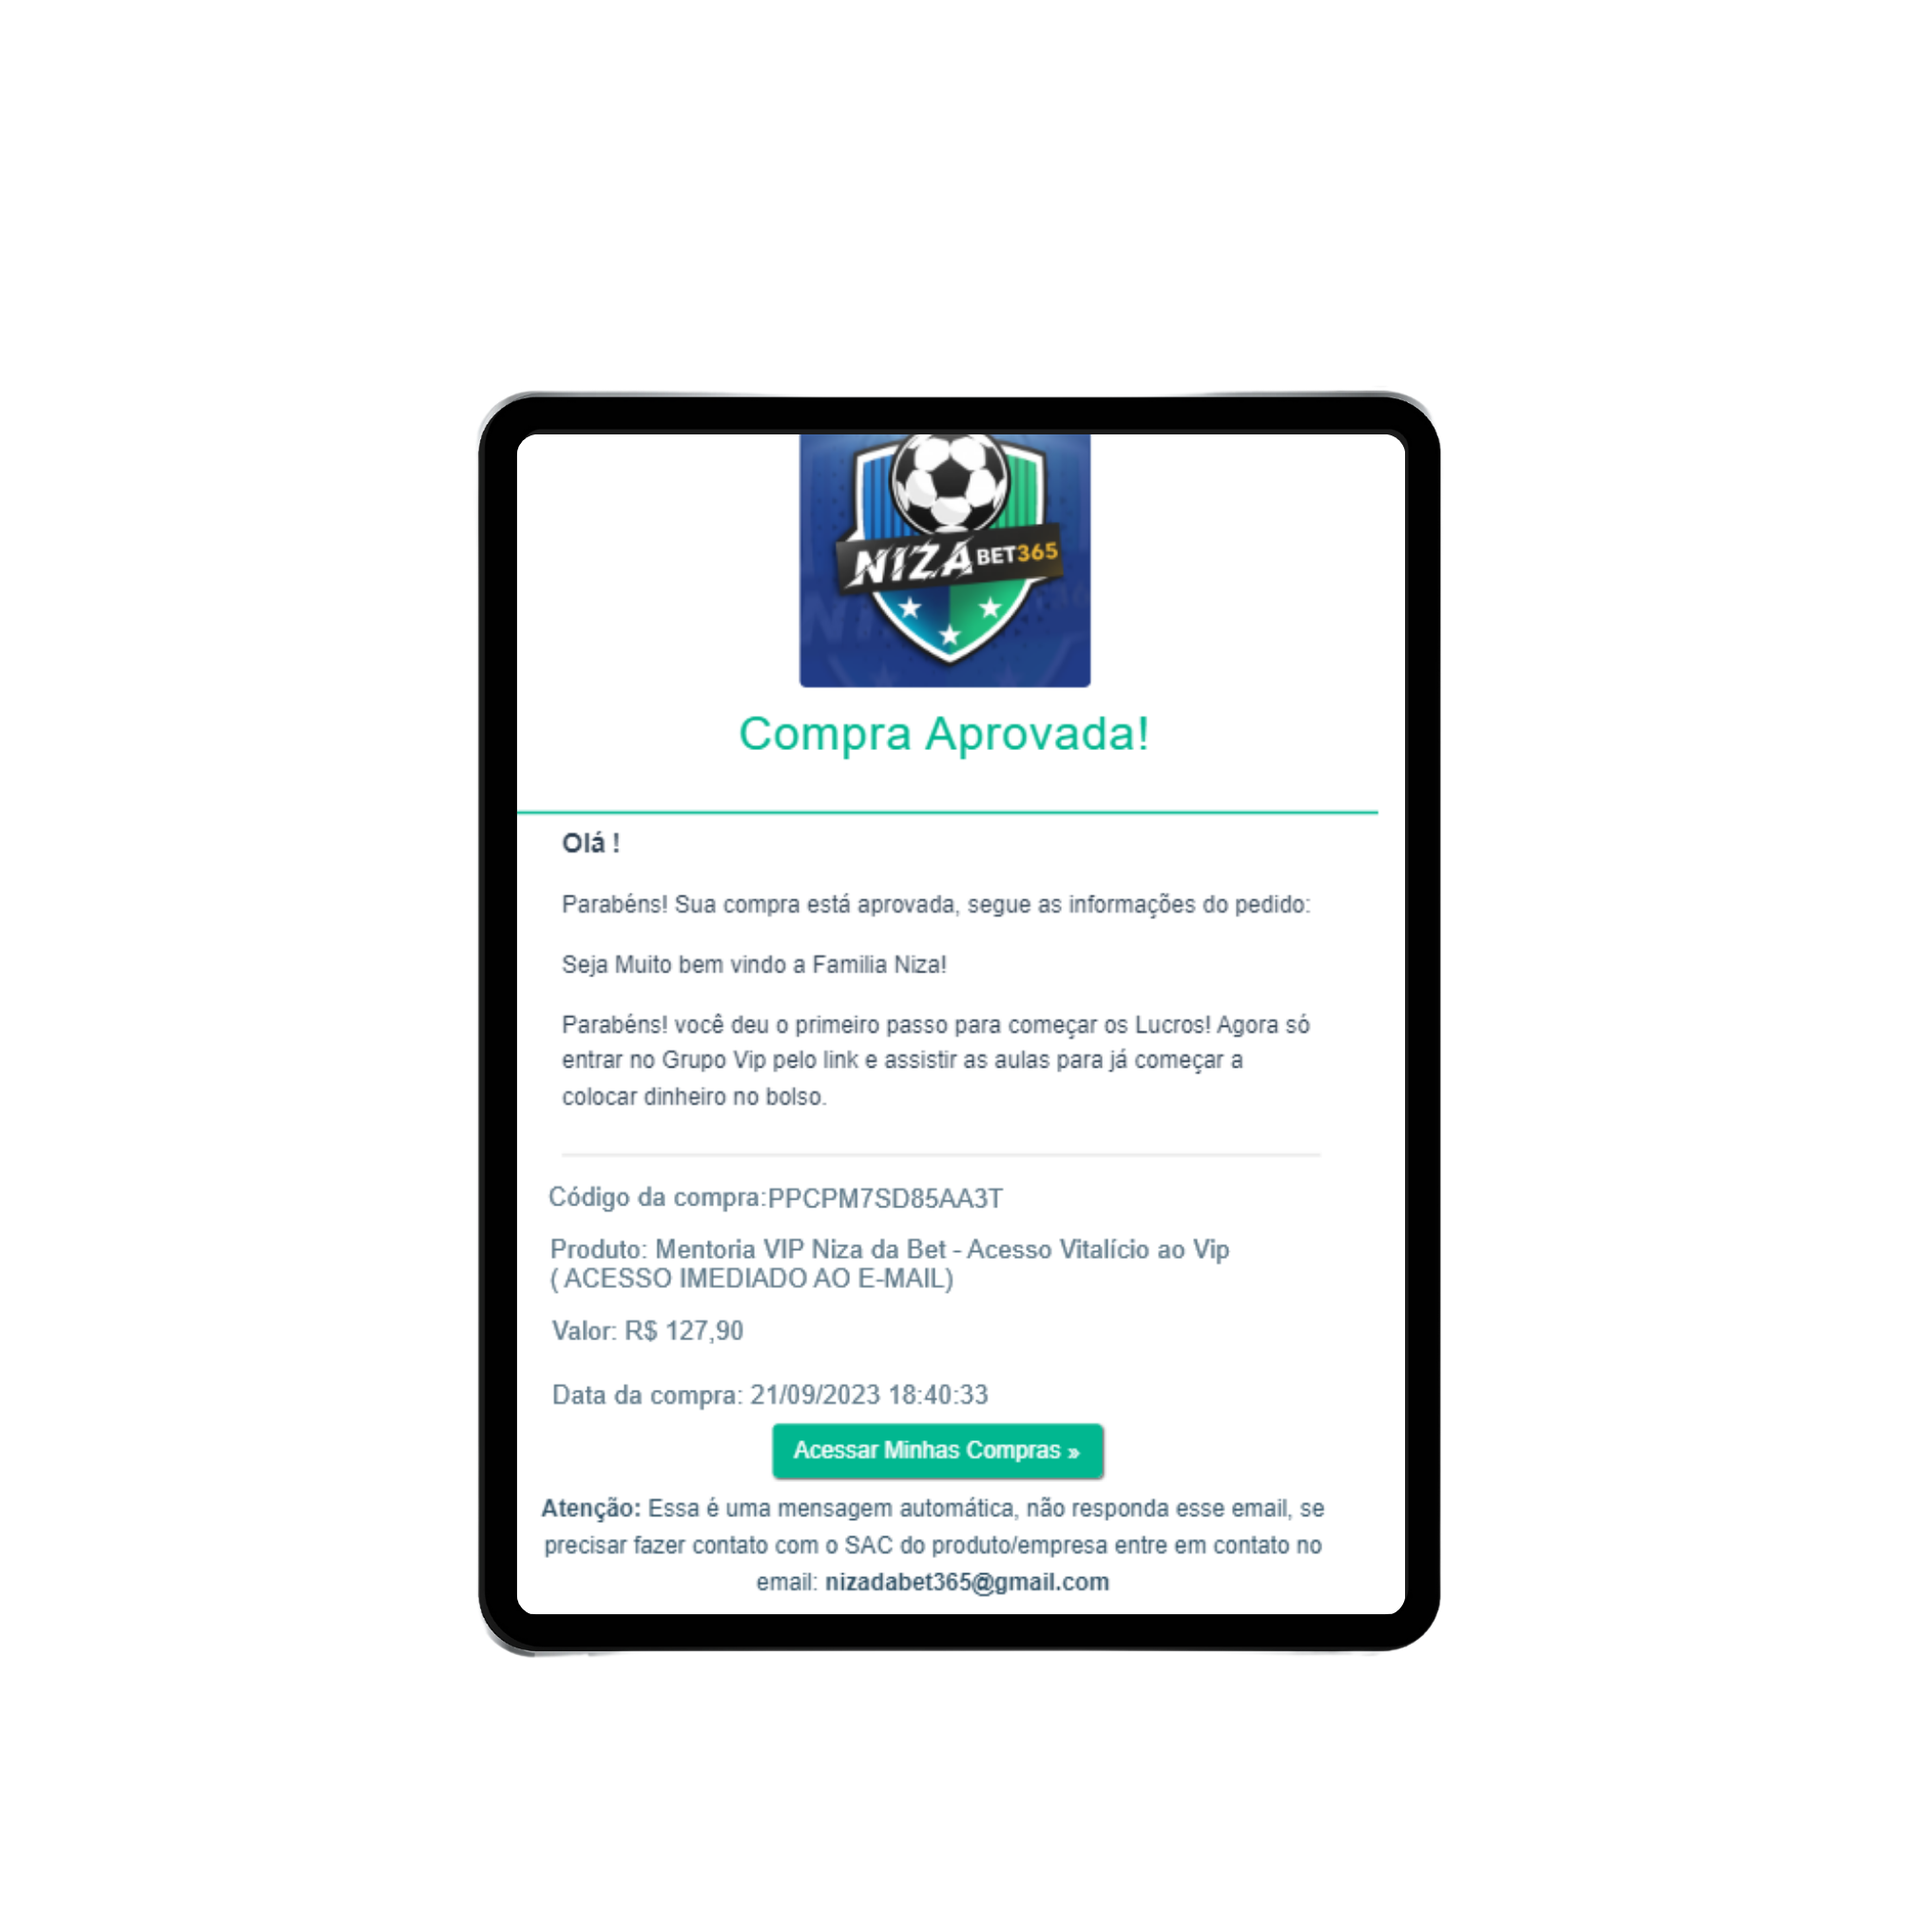
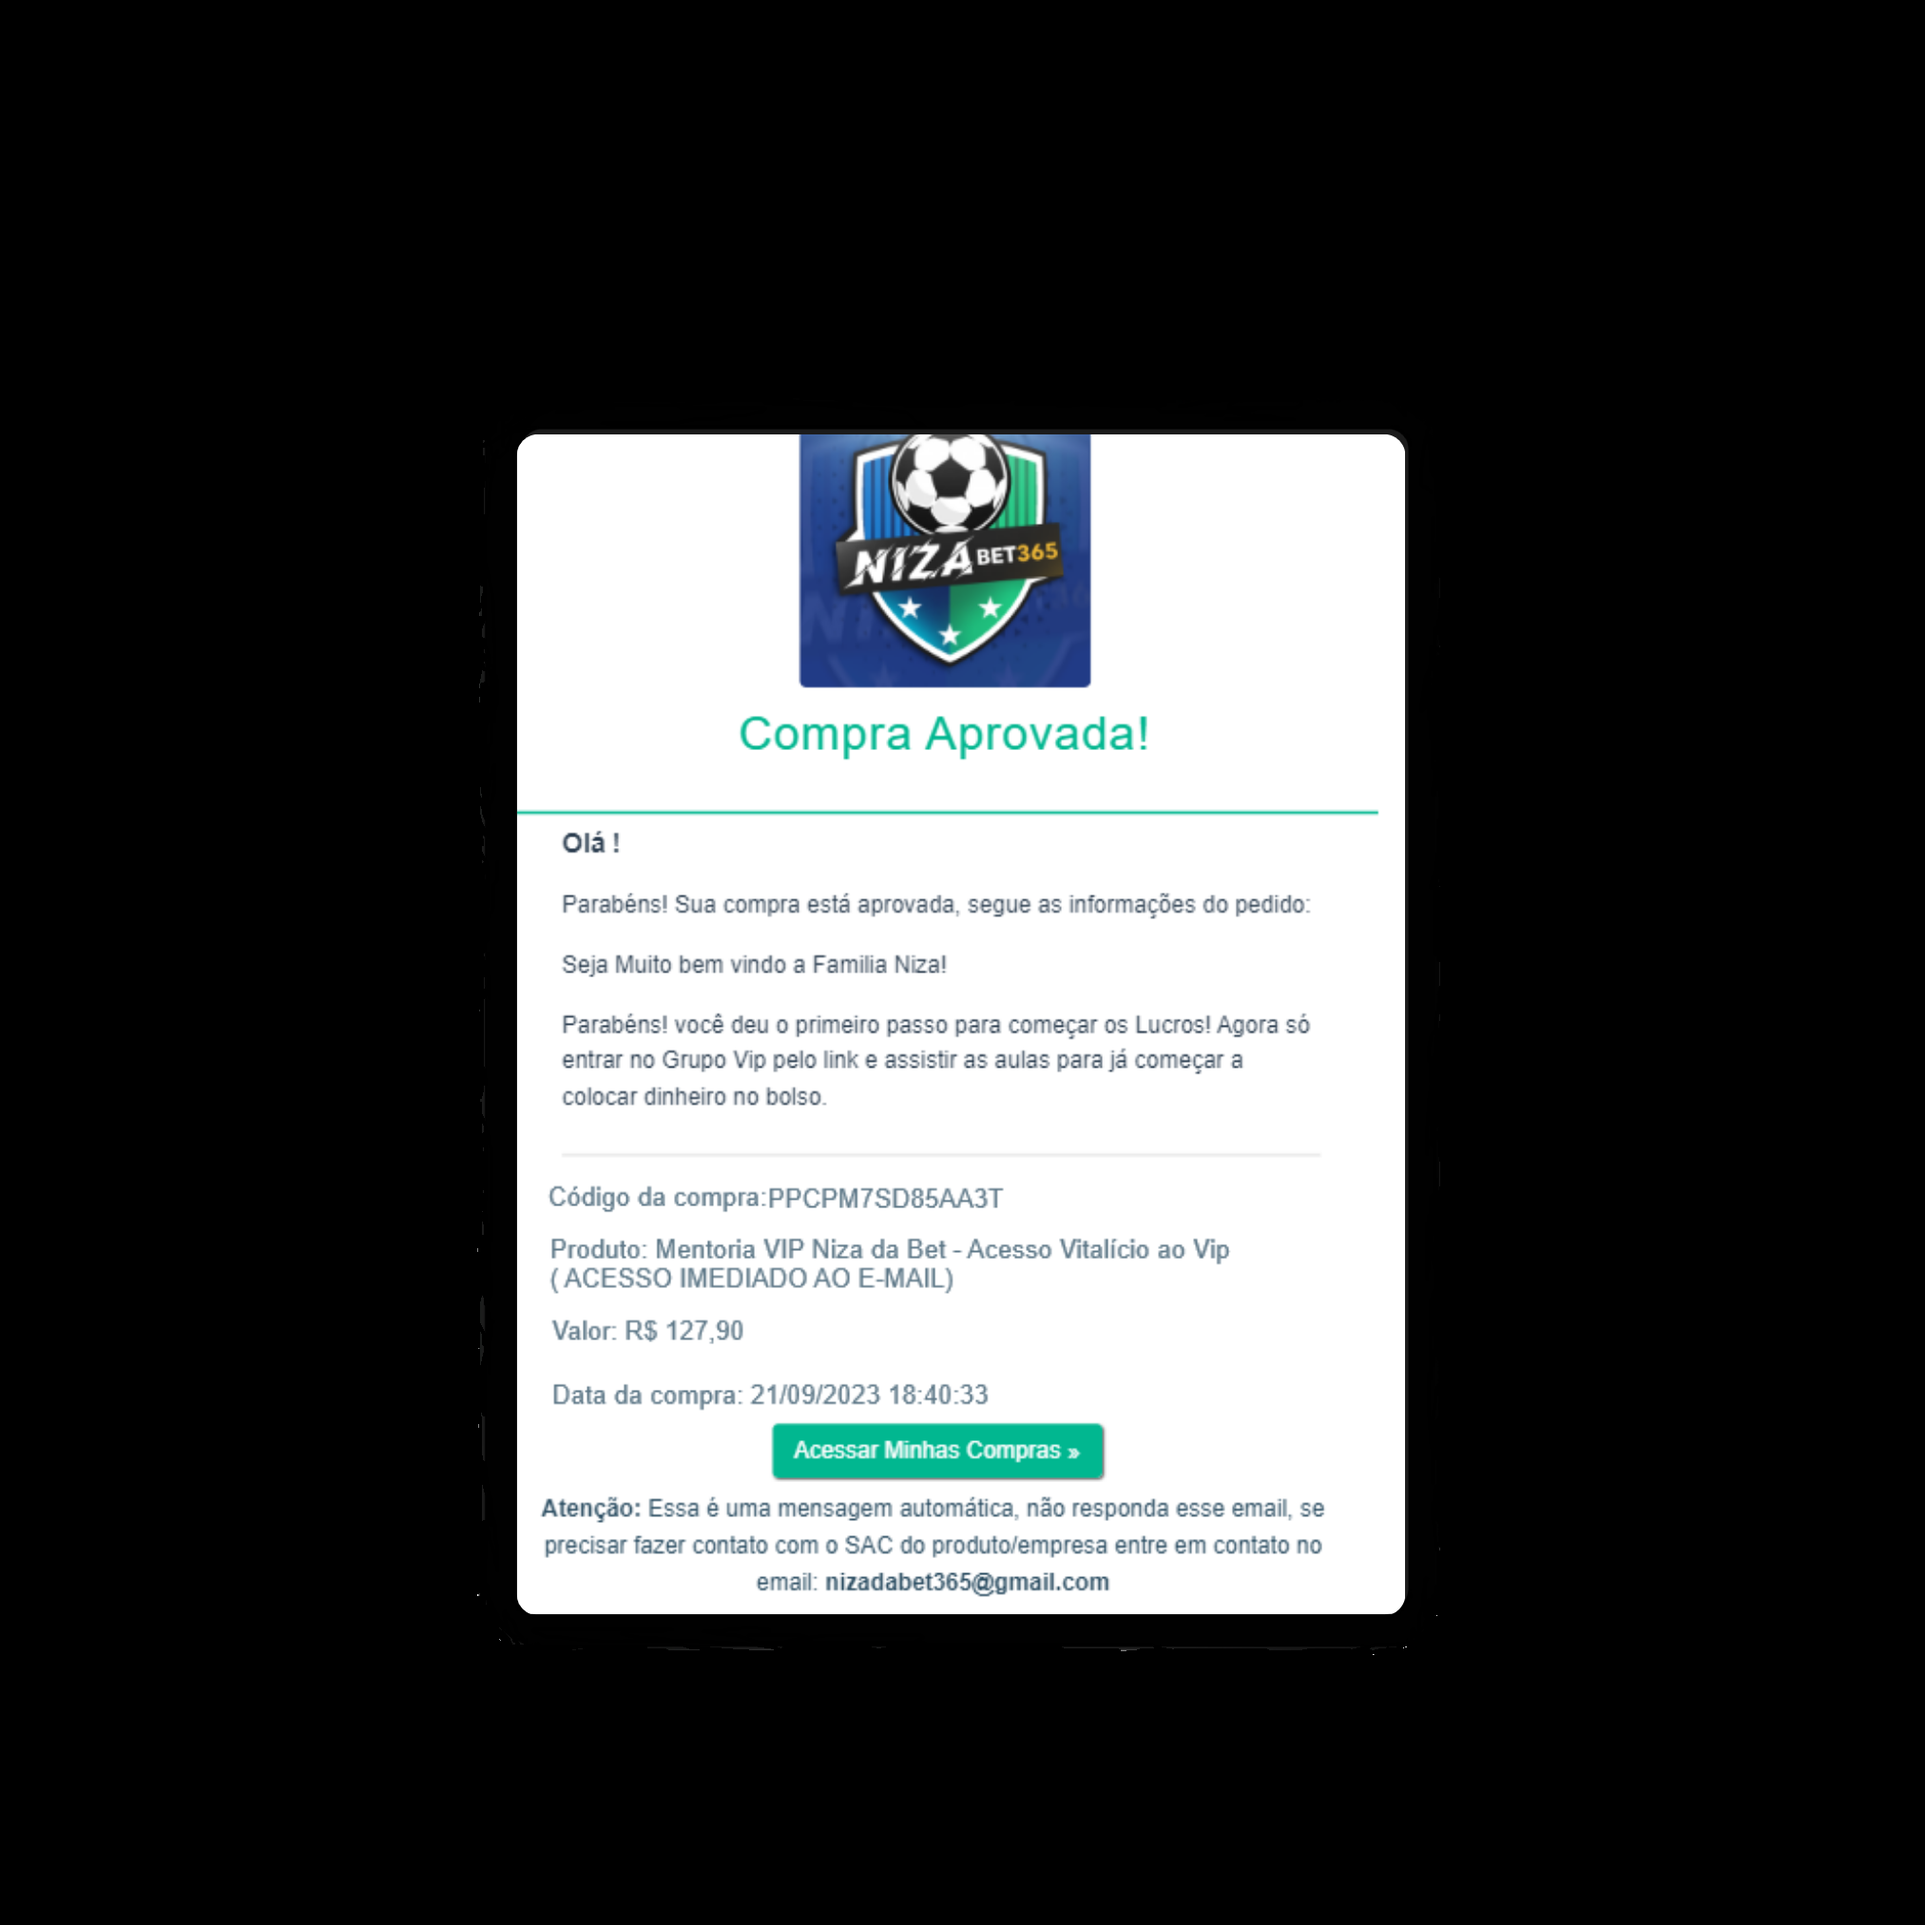
fotos editada

diff --git a/style.css b/style.css
@@ -47,7 +47,7 @@ html {
   );
 }
 .image-principal-1 {
-  height: 600px;
+  height: 1000px;
   position: relative;
   overflow: hidden;
   margin: auto;
@@ -497,6 +497,9 @@ span {
   text-align: center;
   padding: 40px 0;
 }
+.image-principal-1 {
+  background-color: #1c1c1c;
+}
 
 .footer p {
   font-size: 1.3rem;
@@ -592,7 +595,7 @@ span {
   .segredo1 {
     padding-bottom: 20rem;
   }
-  
+
   .footer {
     max-width: 1000;
     flex-direction: column;

diff --git a/index.html b/index.html
@@ -110,7 +110,7 @@
     <div class="acesso">
       <h2><span>ACESSO IMEDIATO!</span></h2>
       <p>ENVIADO POR EMAIL NA HORA</p>
-      <img src="fotos/meio1 .png" class="image-principal-1" />
+      <img src="fotos/meio1.png" class="image-principal-1" />
 
       <h2>Olha os resultados dos membros do <span> GRUPO VIP </span></h2>
     </div>
